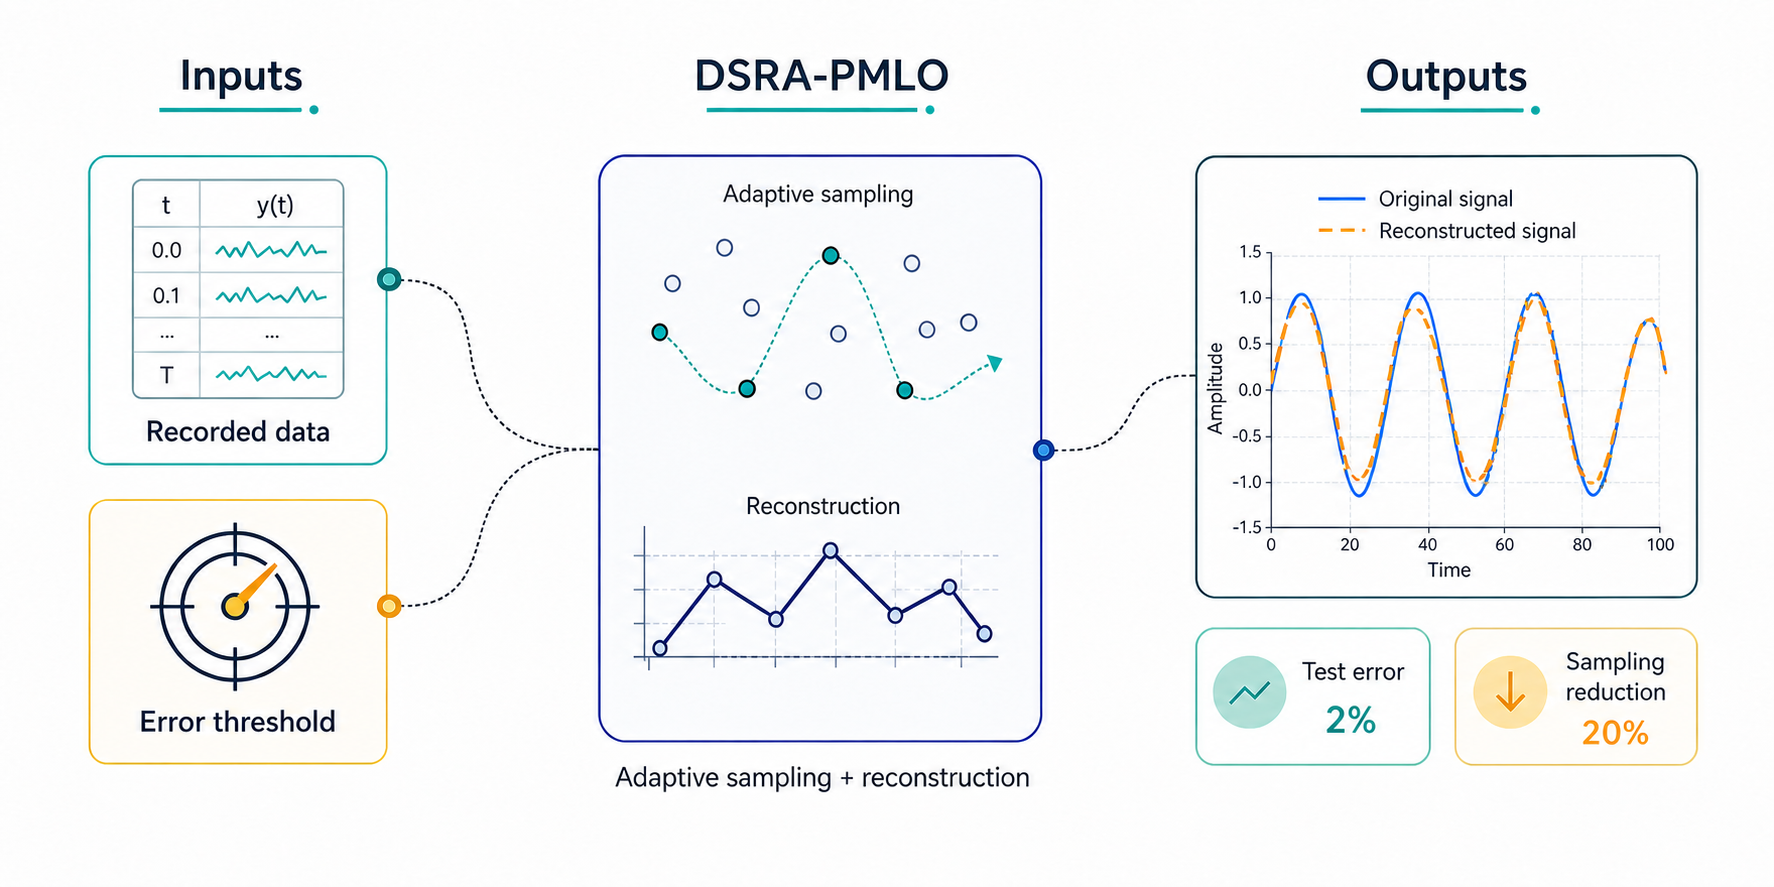
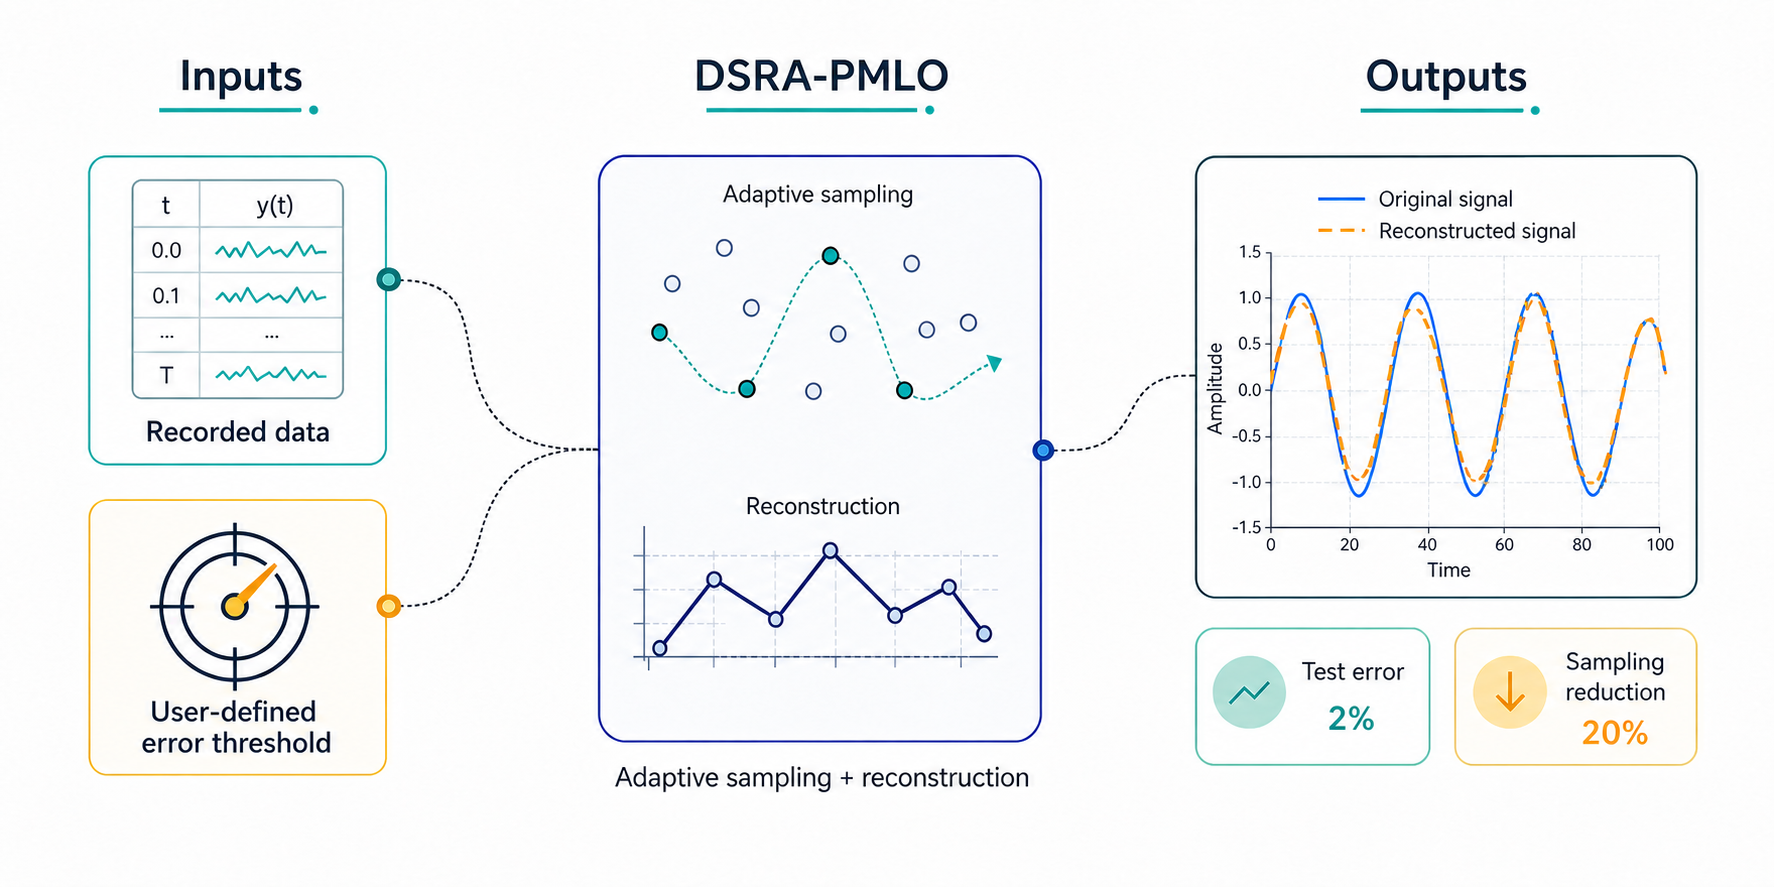
new commit

diff --git a/README.md b/README.md
@@ -8,17 +8,9 @@ predefined approximation constraint.
 
 ![DSRA-PMLO workflow](./docs/assets/dsra_pmlo_workflow.png)
 
-The main input is the selected data file and target column. The main outputs
-are the optimized E and S values, the test-set error, the sampling reduction,
-and the reconstruction plot.
+DSRA-PMLO Software package input/output: The main input is the selected data file and target column. The main outputs are the optimized E and S values, the test-set error, the sampling reduction, and the reconstruction plot.
 
-## Authors And Citation
-
-Authors / Contributors:
-
-- Hatem Algabroun
-- Sisi Wu
-
+## Copyrights And Citation
 This project is based on the adaptive sampling method described in this reference:
 
 - Algabroun, H., & Håkansson, L. (2025). Parametric Machine Learning-Based Adaptive Sampling Algorithm for Efficient IoT Data Collection in Environmental Monitoring. *Journal of Network and Systems Management, 33*(1). https://doi.org/10.1007/s10922-024-09881-1
@@ -27,11 +19,9 @@ Related background paper:
 
 - *Dynamic sampling rate algorithm (DSRA) implemented in self-adaptive software architecture: a way to reduce the energy consumption of wireless sensors through event-based sampling*
 
-<!--
-If you use this algorithm for research, please cite the parametric machine
-learning-based adaptive sampling paper. The code is released under the MIT
+
+If you use this algorithm for research, cite those two papers. The code is released under the MIT
 license, but citation is still requested for academic use.
--->
 
 ## Result Demonstration
 
@@ -352,4 +342,4 @@ The repository root is the folder containing `pyproject.toml`.
 
 ## Questions & Feedback
 
-Please open a GitHub Issue so questions, fixes, and examples stay visible for future users.
+Please open a GitHub Issue so questions, fixes, and examples stay visible for future users. Or feel free to contact owner [Hatem Algabroun]: [email redacted], contributor [Sisi Wu]: [email redacted]